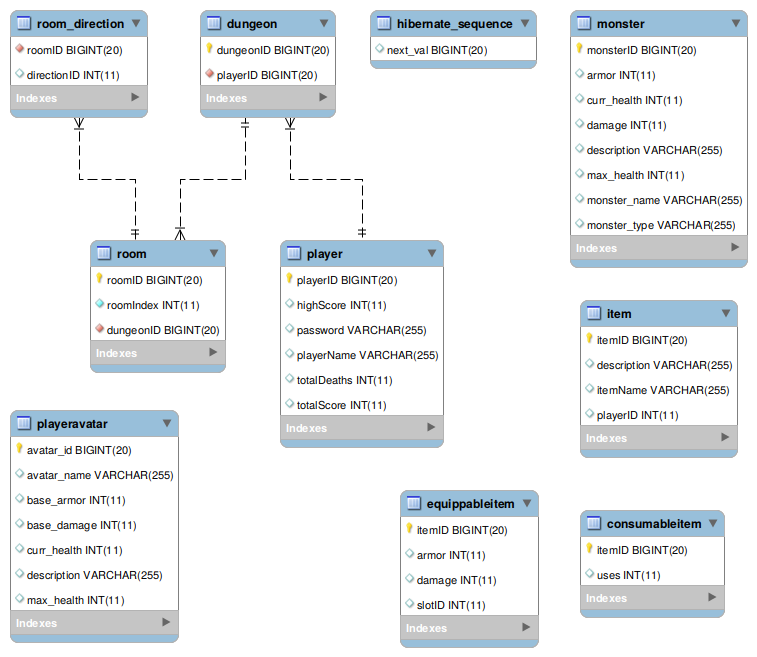
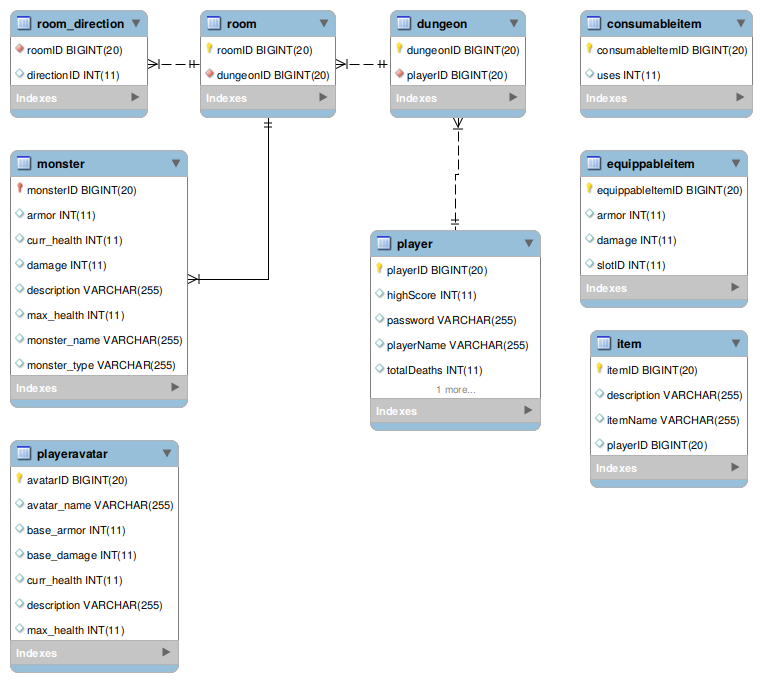
TestDb class now in entities2 for testing monster. Monster FK reference to Room is disabled for testing purposes.

diff --git a/src/main/java/kaica_dun/entities2/TestDb.java b/src/main/java/kaica_dun/entities2/TestDb.java
@@ -1,0 +1,90 @@
+package kaica_dun.entities2;
+
+import kaica_dun.SessionUtil;
+import kaica_dun.dao.DaoFactory;
+import kaica_dun.dao.RoomDao;
+import kaica_dun.entities.Monster;
+import kaica_dun.entities.Room;
+import org.apache.logging.log4j.LogManager;
+import org.apache.logging.log4j.Logger;
+import org.hibernate.Session;
+import org.hibernate.Transaction;
+
+/**
+ *
+ */
+public class TestDb {
+    private static final Logger LOGGER = LogManager.getLogger();
+    private static Logger l = LOGGER; // Convenience formatting for readability.
+
+    private static final SessionUtil sessionUtil = new SessionUtil();
+
+
+    public static void main(String[] args) throws Exception {
+        testDb_Monster();
+    }
+
+
+    public static Session beginSession() {
+
+        l.debug("Starting new SessionFactory.");
+
+        try {
+            sessionUtil.setUpSessionFactory();
+        } catch (Exception e) {
+            l.warn(e);
+        }
+
+        l.debug("Returning session from factory.");
+        return sessionUtil.getCurrentSession();   // Open the session
+
+    }
+
+    public static void testDb_Monster() {
+        Session sess = beginSession();
+
+        l.debug("Beginning new transaction in session.");
+        Transaction tr = sess.beginTransaction(); // Open the transaction
+
+
+        MonsterFactory monsterFactory = new MonsterFactory();
+
+        Monster monster = monsterFactory.makeMonster();
+
+        sess.save(monster);     // Question: why cant we tr.save(monster); ????
+
+
+        l.debug("Commit the transaction.");
+        tr.commit();    // Close the transaction
+
+        l.debug("Closing the session.");
+        sessionUtil.getCurrentSession().close();    // close the session
+
+        l.debug("Closing the SessionFactory.");
+        sessionUtil.closeDownSessionFactory();   // Close the SessionFactory
+
+    }
+
+
+    /* This is another example of usage of session and sessionFactory
+    public void testBasicUsage() {
+        // create a couple of events...
+        Session session = sessionFactory.openSession();
+        session.beginTransaction();
+        session.save( new Event( "Our very first event!", new Date() ) );
+        session.save( new Event( "A follow up event", new Date() ) );
+        session.getTransaction().commit();
+        session.close();
+
+        // now lets pull events from the database and list them
+        session = sessionFactory.openSession();
+        session.beginTransaction();
+        List result = session.createQuery( "from Event" ).list();
+        for ( Event event : (List<Event>) result ) {
+            System.out.println( "Event (" + event.getDate() + ") : " + event.getTitle() );
+        }
+        session.getTransaction().commit();
+        session.close();
+    }
+    */
+}

diff --git a/src/main/java/kaica_dun/entities/TestDb.java b/src/main/java/kaica_dun/entities/TestDb.java
@@ -1,5 +1,6 @@
-package kaica_dun;
+package kaica_dun.entities;
 
+import kaica_dun.SessionUtil;
 import kaica_dun.dao.DaoFactory;
 import kaica_dun.dao.RoomDao;
 import kaica_dun.entities.Room;
@@ -13,14 +14,15 @@ import org.hibernate.Transaction;
  */
 public class TestDb {
     private final Logger LOGGER = LogManager.getLogger();
+    Logger l = this.LOGGER; // Convenience formatting for readability.
     private final SessionUtil sessionUtil = new SessionUtil();
 
     public void main(String[] args) throws Exception {
-        testDb();
+        testDb_Room();
     }
 
+
     public Session beginSession() {
-        Logger l = this.LOGGER; // Convenience formatting for readability.
 
         l.debug("Starting new SessionFactory.");
 
@@ -41,20 +43,18 @@ public class TestDb {
      * ID are in the DB as int. Consider changing the ddl to use long int for this??
      *
      */
-    public void testDb()  {
-        Logger l = this.LOGGER; // Convenience formatting for readability.
+    public void testDb_Room() {
+        Session sess = beginSession();
 
         Long roomID = Long.valueOf(1);
 
-        Session sess = beginSession();
+
 
         /// Searching with only Hibernate
         l.debug("Using Hibernate no DAO to search for an entity by ID: " + roomID);
         Room room = (Room) sess.get(Room.class, roomID);
 
         l.debug("Room found: " + room.toString());
-
-
 
         /// Searching with the DAO process
         l.debug("Starting up a DAO Factory for Hibernate infrastructure.");
@@ -67,33 +67,10 @@ public class TestDb {
         try {
             Room roomFoundByDao = roomDao.findById(roomID, true);
             l.debug("Found a Room by ID: " + roomFoundByDao.toString());
-        }
-        catch (NullPointerException e) {
+        } catch (NullPointerException e) {
             l.debug("No room found with that ID: " + e);
         }
-
-
-
-
-
-        l.debug("Beginning new transaction in session.");
-        Transaction tr = sess.beginTransaction(); // Open the transaction
-
-        // Set the room id without calling session.save()
-        //l.debug("Changing the value of one of the entity attributes.");
-        //room.setRoomId(999);
-
-        l.debug("Commit the transaction.");
-        tr.commit();    // Close the transaction
-
-        l.debug("Closing the session.");
-        sessionUtil.getCurrentSession().close();    // close the session
-
-        l.debug("Closing the SessionFactory.");
-        sessionUtil.closeDownSessionFactory();   // Close the SessionFactory
-
     }
-
 
     /* This is another example of usage of session and sessionFactory
     public void testBasicUsage() {

diff --git a/src/main/java/kaica_dun/entities/Monster.java b/src/main/java/kaica_dun/entities/Monster.java
@@ -16,10 +16,12 @@ public class Monster implements Describable, Lootable {
     @Column(name = "monsterID", updatable = false, nullable = false)
     private Long id;
 
-    //TODO unsure of mapping strategy
-    @OneToOne(optional = false)
-    @PrimaryKeyJoinColumn
-    private Room room;
+    //TODO This should be a table join but currently is simply a non-important column.
+    /*@OneToOne(optional = false)
+    @PrimaryKeyJoinColumn*/
+    @Basic
+    @Column(name = "roomID")
+    private Long roomID;
 
     @Basic
     @Column(name = "armor")
@@ -56,18 +58,18 @@ public class Monster implements Describable, Lootable {
 
 
 
-    public Monster(Room room, int armor, int currHealth, int damage, String description, int maxHealth, String name, String type) {
-        this.room = room;
+    public Monster(Long roomID, int armor, int maxHealth, int currHealth, int damage, String description, String name, String type) {
+        this.roomID = roomID;
         this.armor = armor;
+        this.maxHealth = maxHealth;
         this.currHealth = currHealth;
         this.damage = damage;
         this.description = description;
-        this.maxHealth = maxHealth;
         this.name = name;
         this.type = type;
     }
 
-    public Monster(int armor, int currHealth, int damage, String description, int maxHealth, String name, String type) {
+    public Monster(int armor, int maxHealth, int currHealth, int damage, String description, String name, String type) {
         this.armor = armor;
         this.currHealth = currHealth;
         this.damage = damage;
@@ -87,12 +89,12 @@ public class Monster implements Describable, Lootable {
 
 
 
-    public Room getRoom() {
-        return room;
+    public Long getRoom() {
+        return roomID;
     }
 
-    public void setRoom(Room room) {
-        this.room = room;
+    public void setRoom(Long newRoomID) {
+        this.roomID = newRoomID;
     }
 
 

diff --git a/src/main/java/kaica_dun/entities2/MonsterFactory.java b/src/main/java/kaica_dun/entities2/MonsterFactory.java
@@ -1,13 +1,16 @@
 package kaica_dun.entities2;
 
+import kaica_dun.entities.Monster;
+
 import java.util.Random;
 
-public class Monster2Factory {
+class MonsterFactory {
 
-    Monster2Factory() {}
+    MonsterFactory() {}
 
-    public static Monster2 makeMonster() {
+    public static Monster makeMonster() {
         Random random = new Random();
+
         int armor = random.nextInt(3);
         int maxHealth = random.nextInt(6) + 10;     //10-15 health
         int currHealth = maxHealth;                         //10-15 health
@@ -16,6 +19,17 @@ public class Monster2Factory {
         String description = "It's a filthy " + type;
         String name = type;                                 //TODO change for boss monsters
 
-        return new Monster2(armor, maxHealth, currHealth, damage, type, description, name);
+        return new Monster(armor, maxHealth, currHealth, damage, description, name, type);
     }
 }
+
+
+/*    public Monster(int armor, int currHealth, int damage, String description, int maxHealth, String name, String type) {
+        this.armor = armor;
+        this.currHealth = currHealth;
+        this.damage = damage;
+        this.description = description;
+        this.maxHealth = maxHealth;
+        this.name = name;
+        this.type = type;
+    }*/

diff --git a/src/main/java/kaica_dun/SessionUtil.java b/src/main/java/kaica_dun/SessionUtil.java
@@ -20,7 +20,10 @@ public class SessionUtil {
 
     private static SessionFactory sessionFactory;
 
-    void setUpSessionFactory() throws ExceptionInInitializerError {
+
+
+
+    public void setUpSessionFactory() throws ExceptionInInitializerError {
         // A SessionFactory is set up once for an application!
         final StandardServiceRegistry registry = new StandardServiceRegistryBuilder()
                 .configure() // configures settings from hibernate.cfg.xml
@@ -39,18 +42,24 @@ public class SessionUtil {
         }
     }
 
-    void closeDownSessionFactory() {
+
+
+
+    public void closeDownSessionFactory() {
         if ( sessionFactory != null ) {
             sessionFactory.close();
         }
     }
+
+
+
 
     /**
      * Gets the current session. If there is no session set it opens a new one.
      *
      * @return
      */
-    Session getCurrentSession() {
+    public Session getCurrentSession() {
         Session session;
 
         try {
@@ -63,6 +72,9 @@ public class SessionUtil {
 
         return session;
     }
+
+
+
 
     public static SessionFactory getSessionFactory() {
         return sessionFactory;

diff --git a/src/main/java/kaica_dun/App.java b/src/main/java/kaica_dun/App.java
@@ -3,9 +3,7 @@
  */
 package kaica_dun;
 
-import kaica_dun.entities.Dungeon;
-import kaica_dun.entities.Player;
-import kaica_dun.entities.makeStaticDungeon;
+import kaica_dun.entities2.TestDb;
 import org.apache.logging.log4j.LogManager;
 import org.apache.logging.log4j.Logger;
 
@@ -21,9 +19,12 @@ public class App {
 
         //Dungeon d = msd.makeDungeon();
 
-        TestDb testDb = new TestDb();
+        String[] i = {};
+        TestDb.main(i);
 
-        testDb.testDb();
+        //TestDb testDb = new TestDb();
+
+        //testDb.testDb();
     }
 
 

diff --git a/src/main/java/kaica_dun/entities2/Monster2.java b/src/main/java/kaica_dun/entities2/Monster2.java
@@ -1,13 +1,10 @@
 package kaica_dun.entities2;
 
-import kaica_dun.interfaces.Describable;
-import kaica_dun.interfaces.Lootable;
-
 import javax.persistence.*;
 import java.util.Objects;
 
 @Entity
-@Table(name = "monster2")
+@Table(name = "monster")
 public class Monster2 {
 
     // Field variable declarations and Hibernate annotation scheme
